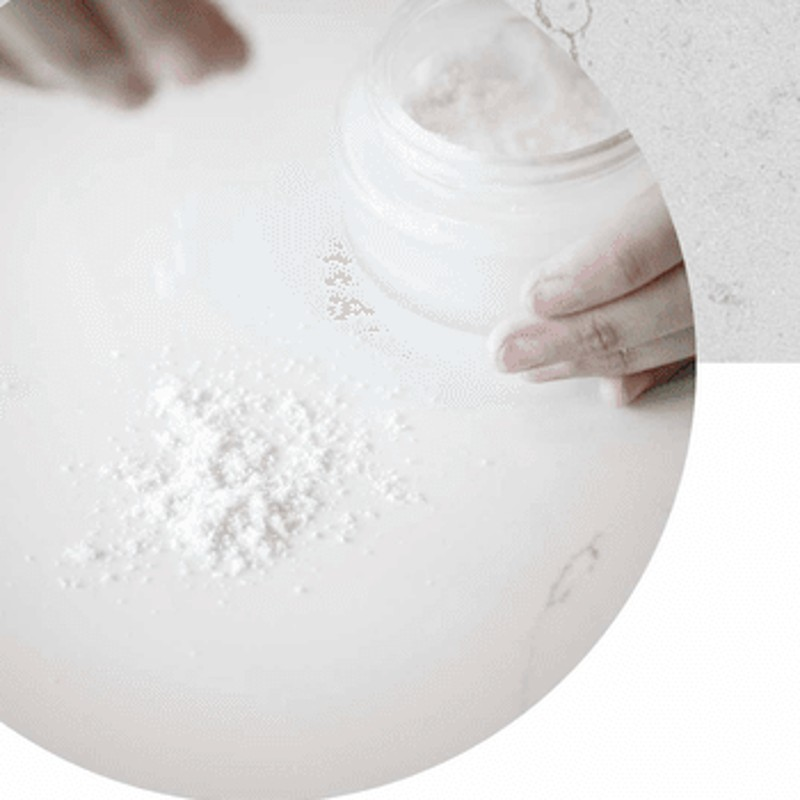
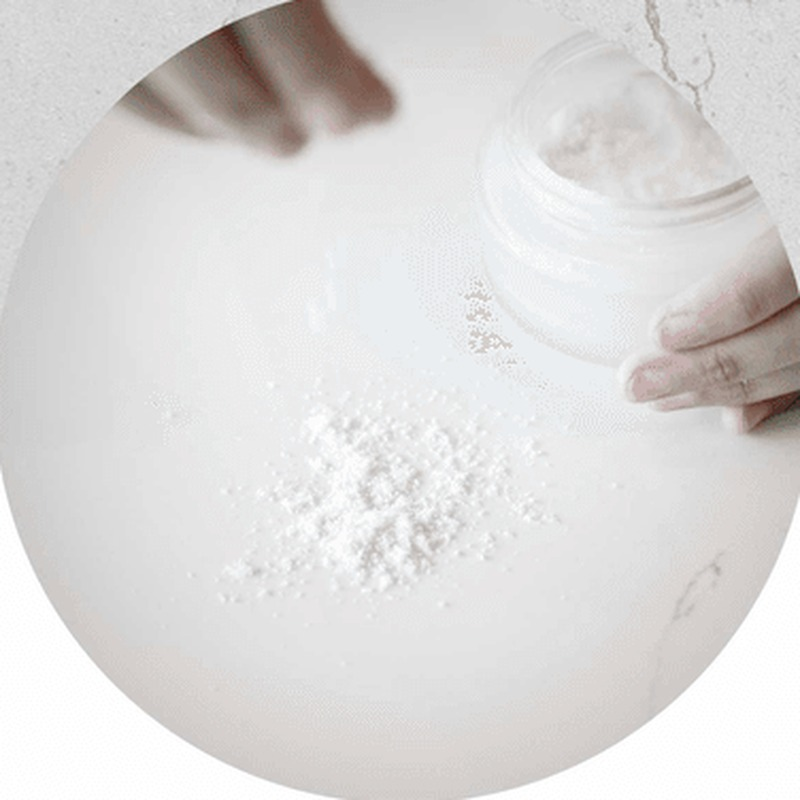
fix: redraw quartz diagrams faithfully and recrop powder steps (#10)
Surface diagram: tightly packed quartz grains with resin only in the gaps,
three surface stains (metal, oil, pigment) with labels and the 90-93% /
7-10% caption. New powder diagram: two grains with the cleaning-powder cloud
carrying dirt out of the gap, plus the particle legend. Powder step photos
recropped from measured circle centers.

Claude-Session: https://claude.ai/code/session_012ogaYCFXC7kQqPJXVvJtG1

diff --git a/app/warranty/care/QuartzDiagram.tsx b/app/warranty/care/QuartzDiagram.tsx
@@ -1,53 +1,128 @@
 /**
- * 人造石英石表面示意圖（原手工 PNG 的向量重製）。
- * 大圓 = 石英顆粒（90–93%），圓與圓之間的縫隙 = 樹酯（7–10%）。
- * 髒污只卡在縫隙表層，不會滲入石材；清潔粉顆粒比縫隙更細，能帶走髒污。
- * 純 SVG，配色沿用 .wr token（graphite / 淺灰），文字用 HTML 疊在外面。
+ * 兩張示意圖的向量重製（依原手工圖逐項對照）。
+ *
+ * SurfaceDiagram：人造石英石表面示意。
+ *   - 白色大圓＝石英顆粒（90–93%），大小不一、緊密相靠。
+ *   - 深灰色只填在顆粒之間的縫隙＝樹酯（7–10%），不是背景。
+ *   - 表面高低不平，三種髒污卡在表面的凹處：金屬碳粉（黑點）、油污（淺褐）、色素（深褐）。
+ *
+ * PowderDiagram：去污原理。
+ *   - 兩顆相靠的石英顆粒，中間 V 形縫隙。
+ *   - 縫隙上方一團淺灰的清潔粉，內含極細的清潔粉顆粒（小點）與被包住的髒污顆粒（大黑點）。
+ *   - 左側圖例：清潔粉顆粒（很多小點）／髒污顆粒（少數大點）。
+ *
+ * 文字用 SVG <text>，字型與顏色繼承 .wr token。
  */
-export default function QuartzDiagram() {
-  const grains = [
-    { cx: 60, cy: 92, r: 42 },
-    { cx: 150, cy: 70, r: 50 },
-    { cx: 245, cy: 96, r: 44 },
-    { cx: 335, cy: 66, r: 52 },
-    { cx: 428, cy: 92, r: 46 },
-    { cx: 515, cy: 68, r: 40 },
-    { cx: 105, cy: 165, r: 30 },
-    { cx: 200, cy: 170, r: 36 },
-    { cx: 292, cy: 168, r: 30 },
-    { cx: 385, cy: 172, r: 38 },
-    { cx: 478, cy: 166, r: 32 },
-    { cx: 560, cy: 150, r: 26 },
-  ];
+
+const INK = "var(--text-primary)";
+const RESIN = "#5a554f";
+const LINE = "#6b655f";
+
+export function SurfaceDiagram() {
+  // 上排大顆粒相切排列；下排小顆粒相切排列，錯位半格。樹酯是兩排之間與顆粒之間露出的深灰。
+  const topR = [58, 64, 52, 60, 56, 70, 54, 62, 50, 58];
+  const botR = [40, 46, 42, 48, 40, 46, 44, 40, 46, 42, 40];
+  const pack = (radii: number[], startX: number, cy: number) => {
+    let x = startX;
+    return radii.map((r, i) => {
+      if (i > 0) x += radii[i - 1] + r - 2;
+      return { cx: x, cy, r };
+    });
+  };
+  const top = pack(topR, 68, 150);
+  const bot = pack(botR, 108, 234);
+  const resinX0 = top[0].cx;
+  const resinX1 = top[top.length - 1].cx;
+  const stainsAt = (i: number) => (top[i].cx + top[i + 1].cx) / 2; // 兩顆之間的凹處
+  const xMetal = stainsAt(0);
+  const xOil = stainsAt(3);
+  const xPigment = stainsAt(6);
   return (
-    <svg
-      viewBox="0 0 600 220"
-      role="img"
-      aria-label="石英顆粒之間的縫隙是樹酯，髒污卡在縫隙表層而非滲入石材"
-      className="quartz-diagram"
-    >
-      {/* 樹酯基底 */}
-      <rect x="0" y="0" width="600" height="220" rx="16" fill="var(--bg-alt)" />
-      {/* 石英顆粒 */}
-      {grains.map((g, i) => (
-        <circle key={i} cx={g.cx} cy={g.cy} r={g.r} fill="#ffffff" stroke="var(--line)" strokeWidth="1.5" />
-      ))}
-      {/* 卡在縫隙表層的髒污：金屬碳粉 / 油污 / 色素 */}
-      <g fill="var(--text-primary)">
-        <circle cx="104" cy="52" r="3" />
-        <circle cx="112" cy="58" r="2.5" />
-        <circle cx="98" cy="60" r="2" />
+    <svg viewBox="0 0 1060 340" role="img" aria-label="人造石英石表面示意：石英顆粒緊密排列，樹酯填在縫隙，髒污卡在表面凹處" className="quartz-diagram">
+      {/* 樹酯：填在顆粒之間；矩形會被相切的顆粒蓋住，只剩縫隙露出 */}
+      <rect x={resinX0} y="118" width={resinX1 - resinX0} height="120" fill={RESIN} />
+      {/* 三種髒污，卡在表面的凹處（畫在顆粒之下，讓顆粒邊緣壓住） */}
+      <g fill={INK}>
+        {[[-10, -4], [2, -12], [12, -2], [-2, 8], [10, 10], [-14, 8]].map(([dx, dy], i) => (
+          <circle key={i} cx={xMetal + dx} cy={104 + dy} r="4.5" />
+        ))}
       </g>
-      <path d="M288 54 q10 -14 22 0 q-11 4 -22 0z" fill="#b8a98a" opacity="0.9" />
-      <path d="M470 52 q12 -14 26 0 q-13 5 -26 0z" fill="#6b5a4a" opacity="0.9" />
-      {/* 表面線：髒污只在表層 */}
-      <path
-        d="M20 48 C 90 22, 120 22, 150 20 S 260 40, 335 14 S 430 44, 515 28"
-        fill="none"
-        stroke="var(--text-tertiary)"
-        strokeWidth="1"
-        strokeDasharray="3 4"
-      />
+      <path d={`M${xOil - 34} 122 C ${xOil - 24} 92, ${xOil + 18} 88, ${xOil + 34} 120 C ${xOil + 14} 128, ${xOil - 14} 128, ${xOil - 34} 122 Z`} fill="#cdb48a" />
+      <path d={`M${xPigment - 38} 122 C ${xPigment - 26} 88, ${xPigment + 22} 84, ${xPigment + 38} 120 C ${xPigment + 16} 130, ${xPigment - 16} 130, ${xPigment - 38} 122 Z`} fill="#8a7563" />
+      {/* 石英顆粒 */}
+      {[...top, ...bot].map((g, i) => (
+        <circle key={i} cx={g.cx} cy={g.cy} r={g.r} fill="#ffffff" stroke={LINE} strokeWidth="2.5" />
+      ))}
+      {/* 標註：文字 + 向下指的短箭頭 */}
+      {[
+        { x: xMetal, label: "金屬｜刀、鐵鍋之刮傷" },
+        { x: xOil, label: "油污" },
+        { x: xPigment, label: "色素｜紅酒、醬油、咖啡" },
+      ].map((a) => (
+        <g key={a.label}>
+          <text x={a.x} y="34" fill={INK} fontSize="22" fontWeight="500" textAnchor="middle">
+            {a.label}
+          </text>
+          <line x1={a.x} y1="46" x2={a.x} y2="86" stroke={LINE} strokeWidth="1.5" />
+          <polyline points={`${a.x - 6},78 ${a.x},88 ${a.x + 6},78`} fill="none" stroke={LINE} strokeWidth="1.5" />
+        </g>
+      ))}
+      <text x="530" y="326" fill="var(--text-secondary)" fontSize="20" textAnchor="middle">
+        90–93% 石英石顆粒、7–10% 樹酯
+      </text>
     </svg>
   );
 }
+
+export function PowderDiagram() {
+  return (
+    <svg viewBox="0 0 1060 480" role="img" aria-label="去污原理：清潔粉的細顆粒深入石英顆粒之間，把較大的髒污顆粒帶走" className="quartz-diagram">
+      <text x="640" y="56" fill={INK} fontSize="30" fontWeight="600" textAnchor="middle">
+        Saiens 清潔粉帶走髒污
+      </text>
+
+      {/* 圖例：清潔粉顆粒 */}
+      <circle cx="120" cy="130" r="62" fill="var(--bg-alt)" />
+      <g fill={INK}>
+        {[[-30,-20],[-12,-34],[8,-28],[26,-14],[-38,4],[-20,-4],[0,-8],[18,2],[36,8],[-28,20],[-8,16],[12,24],[30,26],[-14,34],[6,38],[-36,-32],[40,-30]].map(([dx,dy],i)=>(
+          <circle key={i} cx={120+dx} cy={130+dy} r="3" />
+        ))}
+      </g>
+      <text x="120" y="228" fill={INK} fontSize="22" fontWeight="500" textAnchor="middle">清潔粉顆粒</text>
+
+      {/* 圖例：髒污顆粒 */}
+      <circle cx="120" cy="330" r="62" fill="var(--bg-alt)" />
+      <g fill={INK}>
+        {[[-26,-18],[10,-30],[26,-6],[-6,0],[-30,18],[18,20],[-4,30]].map(([dx,dy],i)=>(
+          <circle key={i} cx={120+dx} cy={330+dy} r="8" />
+        ))}
+      </g>
+      <text x="120" y="428" fill={INK} fontSize="22" fontWeight="500" textAnchor="middle">髒污顆粒</text>
+
+      {/* 清潔粉雲（落在兩顆粒之間的縫隙上方） */}
+      <path
+        d="M520 190 C 545 130, 620 120, 655 150 C 690 120, 760 125, 780 175 C 760 200, 730 210, 700 235 C 670 260, 640 265, 618 240 C 590 220, 555 215, 520 190 Z"
+        fill="var(--bg-alt)"
+      />
+      {/* 兩顆石英顆粒 */}
+      <circle cx="520" cy="330" r="130" fill="#ffffff" stroke={INK} strokeWidth="3" />
+      <circle cx="780" cy="330" r="130" fill="#ffffff" stroke={INK} strokeWidth="3" />
+      <text x="520" y="340" fill={INK} fontSize="30" fontWeight="500" textAnchor="middle">石英顆粒</text>
+      <text x="780" y="340" fill={INK} fontSize="30" fontWeight="500" textAnchor="middle">石英顆粒</text>
+
+      {/* 縫隙裡：被清潔粉包住的髒污顆粒（大點）與清潔粉顆粒（小點） */}
+      <g fill={INK}>
+        <circle cx="630" cy="220" r="14" />
+        <circle cx="668" cy="206" r="15" />
+        <circle cx="650" cy="250" r="13" />
+        <circle cx="690" cy="238" r="12" />
+        <circle cx="705" cy="212" r="10" />
+        {[[560,170],[585,158],[612,150],[640,146],[672,150],[700,160],[730,172],[755,186],[600,190],[720,200],[608,232],[676,262],[640,278]].map(([x,y],i)=>(
+          <circle key={i} cx={x} cy={y} r="3.5" />
+        ))}
+      </g>
+    </svg>
+  );
+}
+
+export default SurfaceDiagram;

diff --git a/app/warranty/care/page.tsx b/app/warranty/care/page.tsx
@@ -2,7 +2,7 @@ import type { Metadata } from "next";
 import Reveal from "../register/Reveal";
 import "../register/warranty.css";
 
-import QuartzDiagram from "./QuartzDiagram";
+import { PowderDiagram, SurfaceDiagram } from "./QuartzDiagram";
 
 const LINE_OA_URL = "https://lin.ee/poXsa4y";
 // 影像：hero／步驟／情境圖為 AI 生成（見 public/warranty/care/image-manifest.json）；
@@ -198,22 +198,20 @@ export default function WarrantyCarePage() {
         </div>
         <div className="care-why" data-reveal data-stagger="1">
           <p className="col-h">為什麼不吃色，還要清潔？</p>
-          <QuartzDiagram />
-          <div className="care-why-notes">
-            <div>
-              <p className="t">人造石英石表面示意</p>
-              <p className="s">
-                石英顆粒占 <span className="nowrap">90–93%</span>，樹酯占 <span className="nowrap">7–10%</span>。
-                表面具抗刮、耐磨、不吃色的物理特性；金屬碳粉、油污或色素只會卡在顆粒之間的縫隙表層，並非滲透石材。
-              </p>
-            </div>
-            <div>
-              <p className="t">去污原理</p>
-              <p className="s">
-                清潔粉的分子比石英顆粒更細，能深入顆粒之間把髒污帶走。手邊沒有清潔粉時，粗蠟、牙膏或牙粉也可以。
-              </p>
-            </div>
-          </div>
+          <figure className="care-diagram">
+            <SurfaceDiagram />
+            <figcaption>
+              <span className="t">人造石英石表面示意</span>
+              人造石英石具抗刮、耐磨、不吃色的物理特性。髒污會卡在石英顆粒之間的縫隙中，並非滲透石材，使用 Saiens 清潔粉即可去除。
+            </figcaption>
+          </figure>
+          <figure className="care-diagram">
+            <PowderDiagram />
+            <figcaption>
+              <span className="t">去污原理</span>
+              比石英顆粒更小的清潔分子，可深入石英顆粒間將髒污去除；也可以使用粗蠟、牙膏、牙粉。
+            </figcaption>
+          </figure>
         </div>
       </section>
 

diff --git a/app/warranty/register/warranty.css b/app/warranty/register/warranty.css
@@ -1053,6 +1053,30 @@
   height: auto;
 }
 
+.wr .care-diagram {
+  margin: 0 0 28px;
+  padding: 20px 20px 16px;
+  border-radius: 20px;
+  background: var(--bg);
+  border: 1px solid var(--line);
+}
+
+.wr .care-diagram figcaption {
+  margin-top: 14px;
+  font-size: 15px;
+  color: var(--text-secondary);
+  line-height: 1.6;
+}
+
+.wr .care-diagram figcaption .t {
+  display: block;
+  font-size: 17px;
+  font-weight: 600;
+  color: var(--text-primary);
+  letter-spacing: -0.01em;
+  margin-bottom: 4px;
+}
+
 .wr .care-why-notes {
   margin-top: 24px;
   display: grid;
